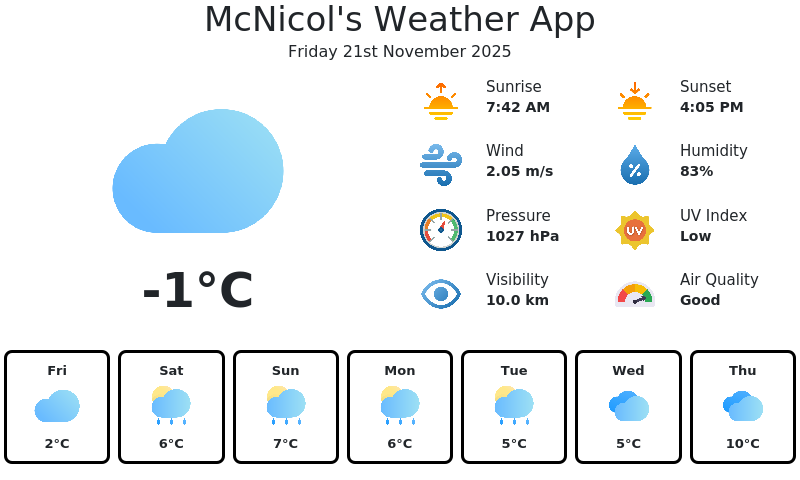
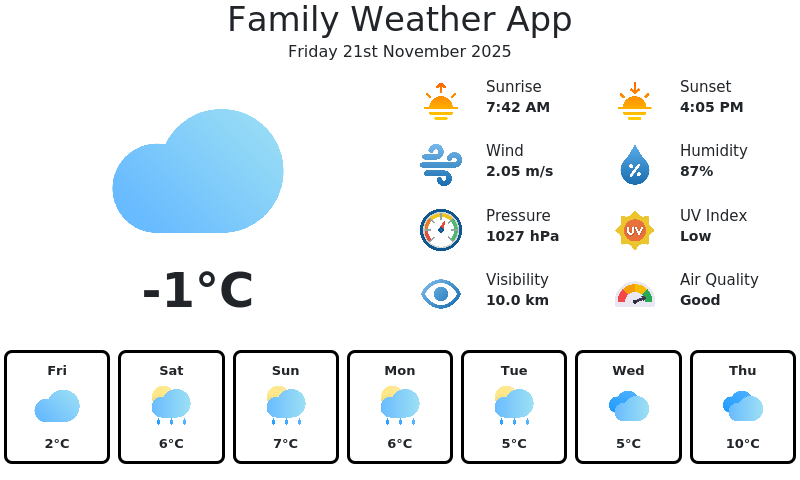
Stuff

Changed region(s): [[0.25, 0.0, 0.75, 0.0938], [0.8438, 0.3438, 0.875, 0.375]]

diff --git a/web/index.html b/web/index.html
@@ -9,7 +9,7 @@
 </head>
 <body>
   <div class="container text-center">
-    <h1>McNicol's Weather App</h1>
+    <h1>Family Weather App</h1>
     <p class="value" id="today-date-val"></p>
   </div>
 
